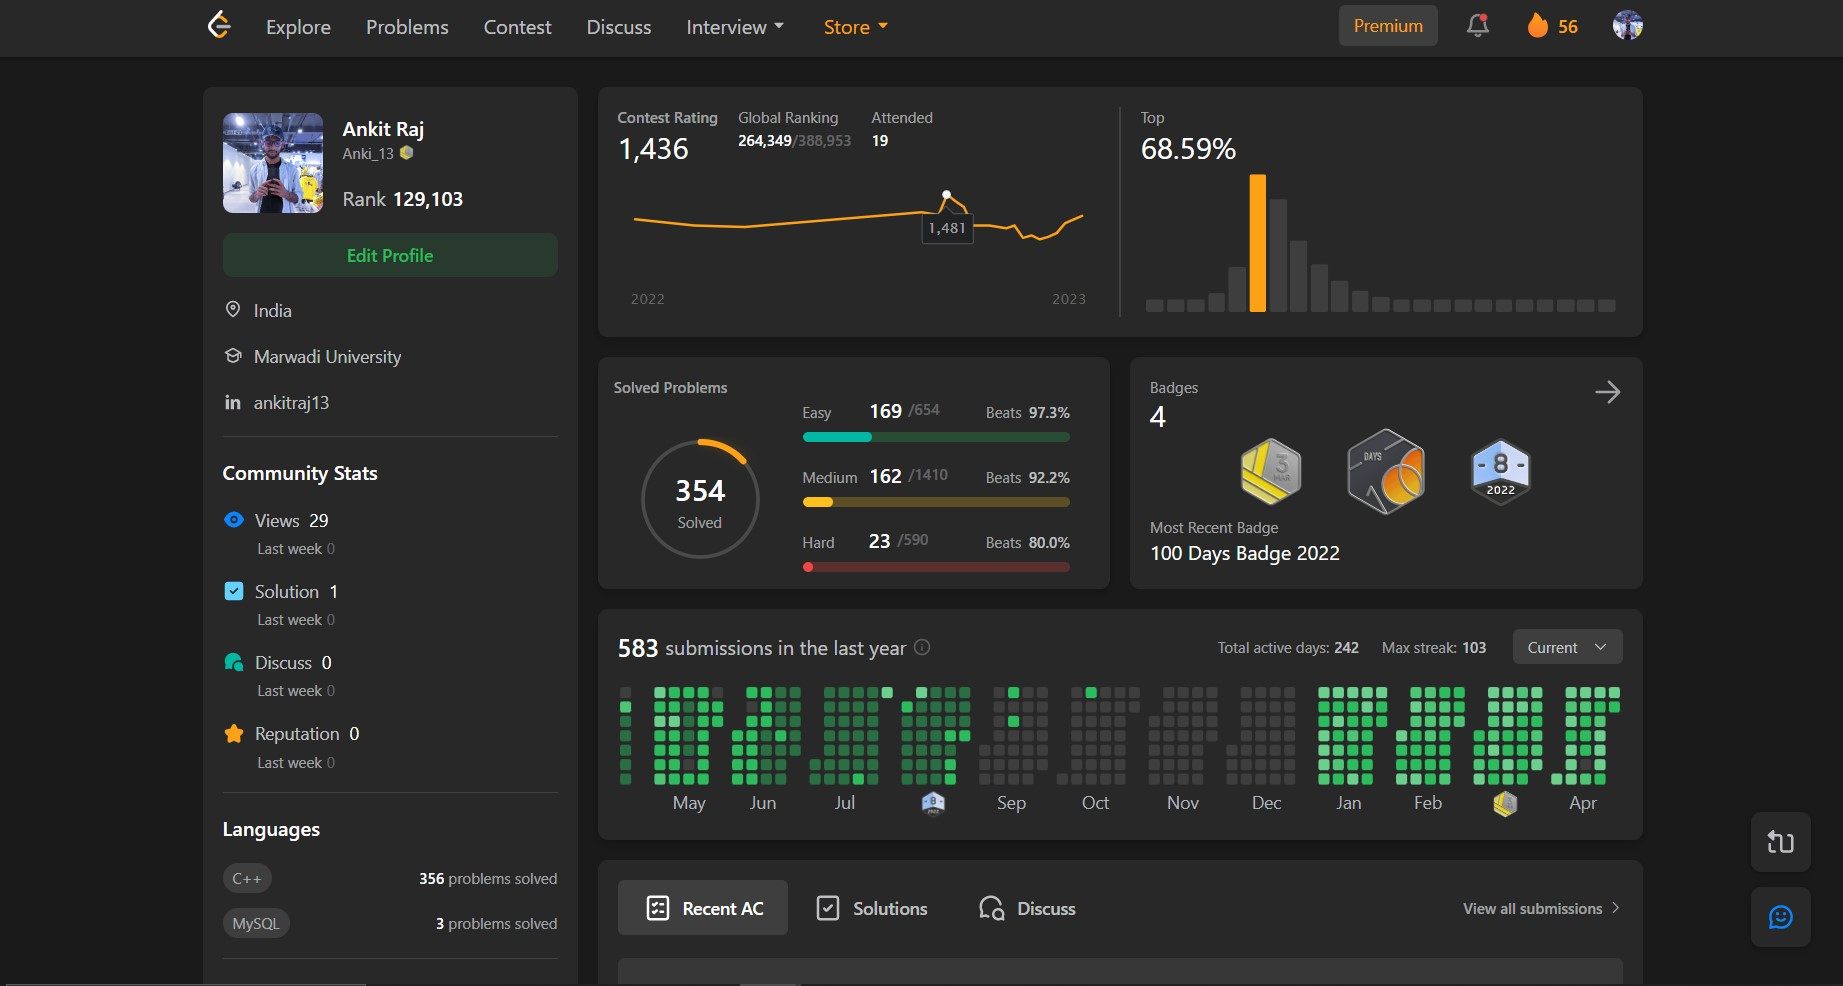
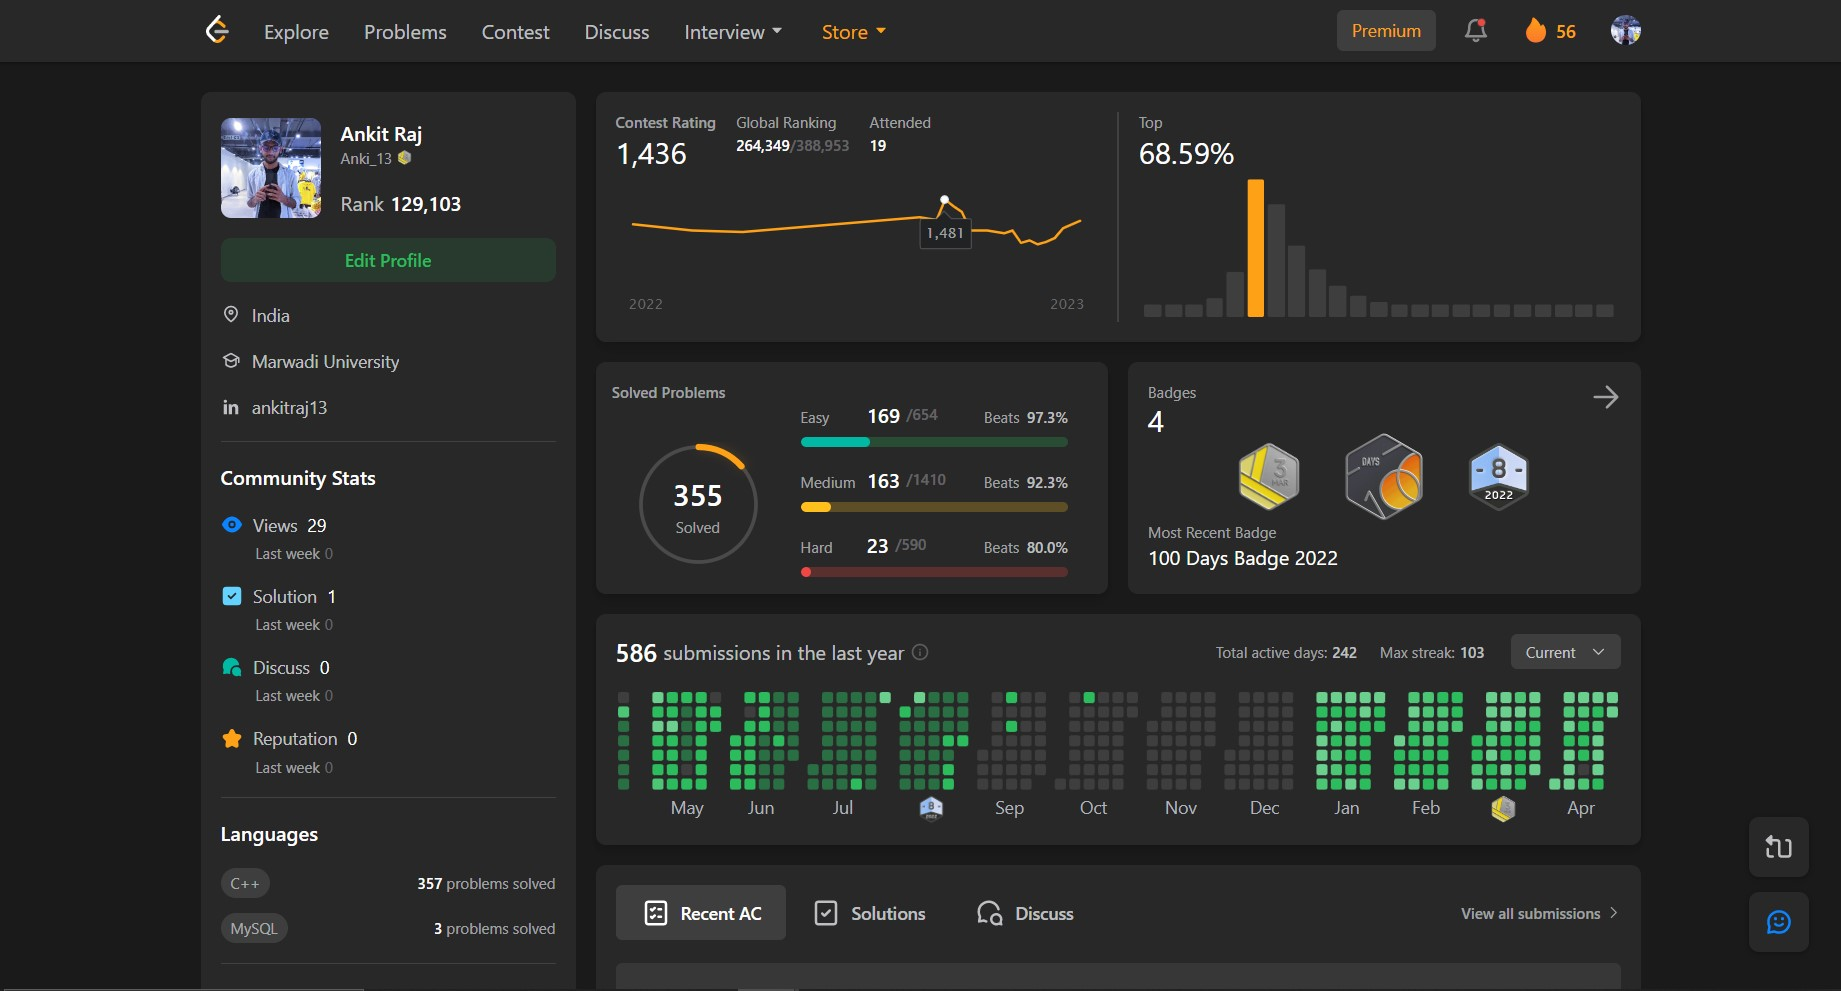
Day 114

diff --git a/Day 114/2654_Min_Num_Ope.cpp b/Day 114/2654_Min_Num_Ope.cpp
@@ -1,0 +1,35 @@
+class Solution {
+public:
+    int minOperations(vector<int>& A) {
+        int one = 0, N=A.size();
+        for (int i = 0; i < N; i++)
+        {
+            if (A[i] == 1)
+                one++;
+        }
+
+        if (one != 0)
+            return N - one;
+
+        int minimum = INT_MAX;
+        for (int i = 0; i < N; i++) 
+        {
+            int g = A[i]; 
+            for (int j = i + 1; j < N; j++)
+            {
+                g = __gcd(A[j], g);
+                if (g == 1) 
+                {
+                    minimum = min(minimum, j - i);
+                    break;
+                }
+            }
+        }
+
+        if (minimum == INT_MAX)
+            return -1;
+        else
+            return N + minimum - 1;
+    
+    }
+};
